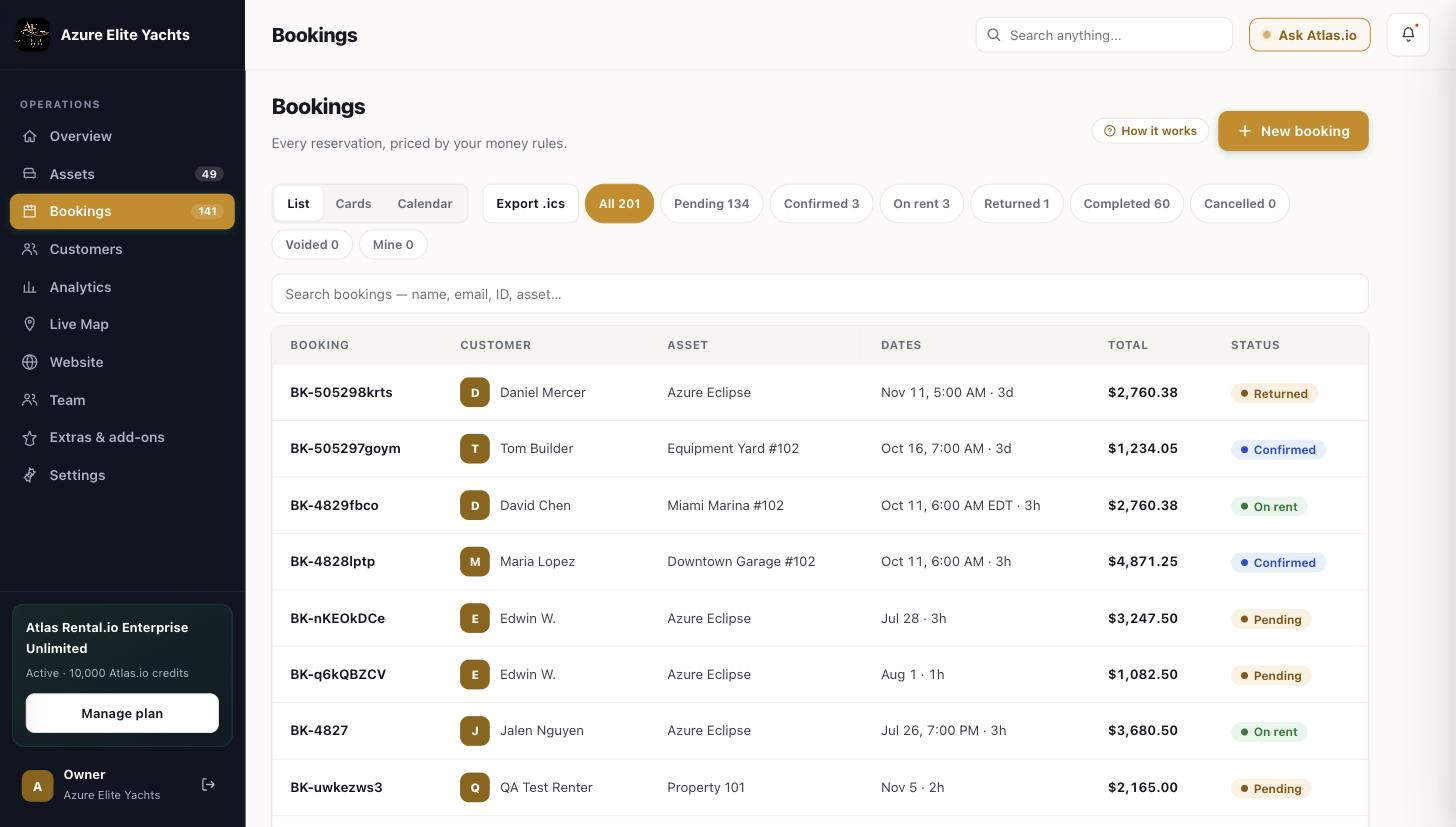
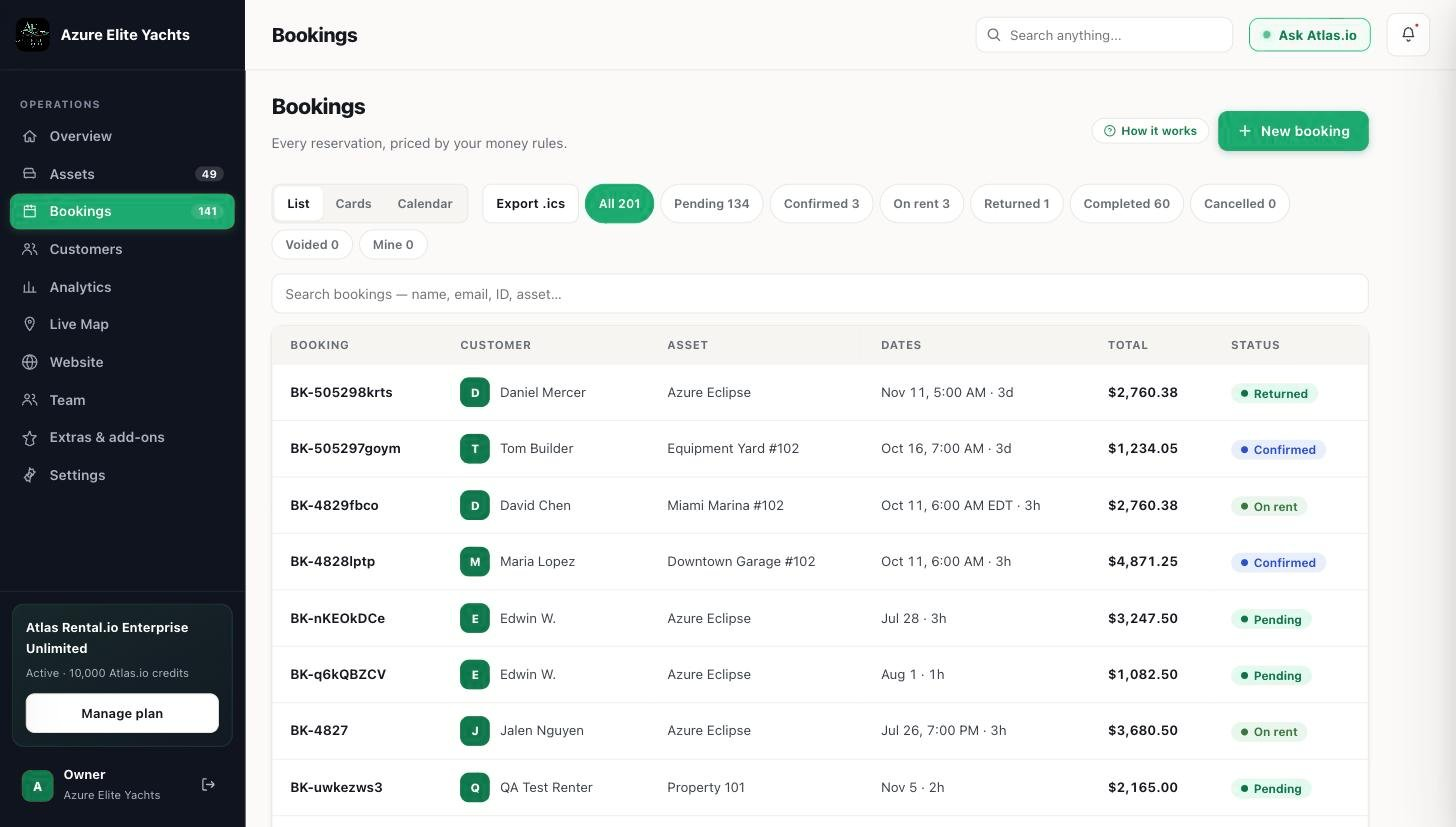
Atlas homepage: rebrand product screenshots gold -> Atlas emerald (SW v536->v537)
The 7 /img/shot-*.jpg homepage screenshots carried Azure Elite Yachts' gold
tenant brand accent. Recolored gold -> Atlas brand green (--brand #1E6E4E family)
so the marketing shots are on Atlas branding. Kept: the dark sidebar (Atlas's own
--sidebar), semantic blue "Confirmed" / red trend, and the vessel photos (sunset
yacht thumbnail restored to true color). SW cache v536->v537 purges the old
runtime-cached gold images for returning visitors. atlas.html unchanged (no
APP_VERSION bump; PCI tamper hash unaffected).

diff --git a/atlas-sw.js b/atlas-sw.js
@@ -2,7 +2,7 @@
    Network-first for everything (never serve stale HTML/JS), cache only as an OFFLINE fallback.
    Own cache name so it never touches other apps' caches. Deploy Atlas in its own folder in
    production so this SW's scope stays isolated from any sibling app's service worker. */
-var CACHE = 'atlas-shell-v536';
+var CACHE = 'atlas-shell-v537';
 var SHELL = ['atlas.html', 'atlas-manifest.json', 'atlas-icon.svg'];
 
 self.addEventListener('install', function (e) {
